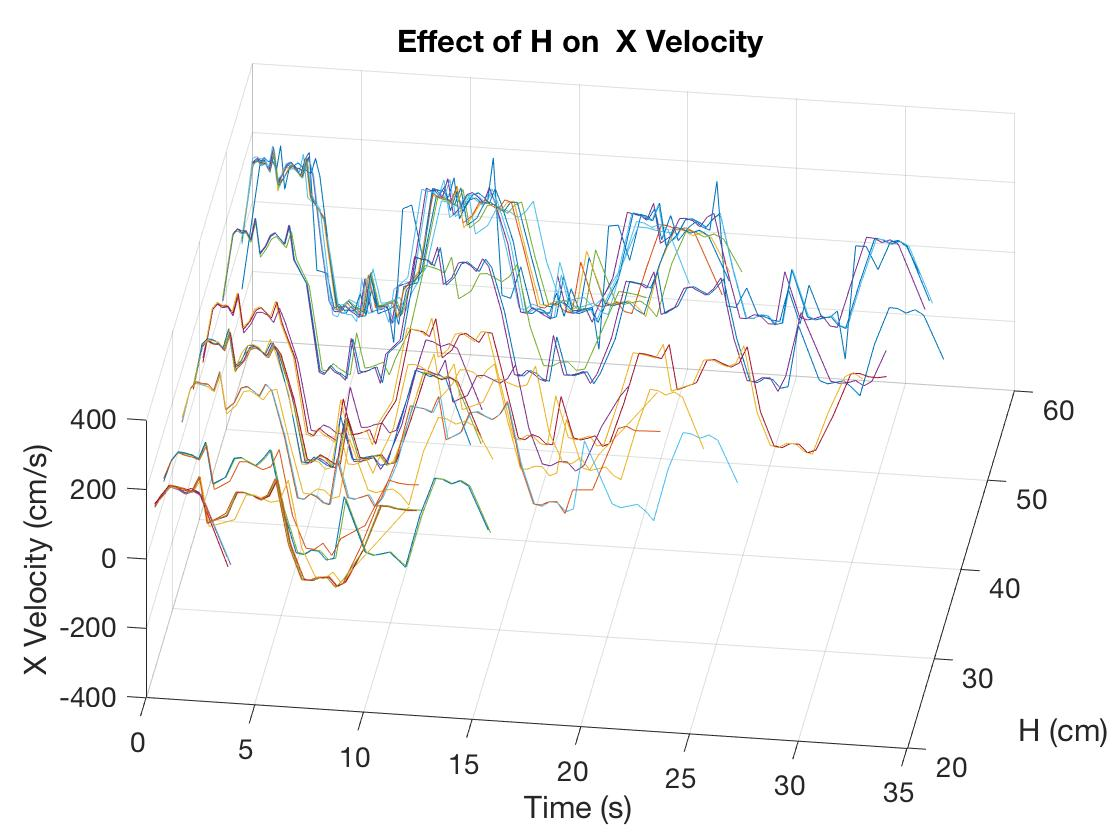
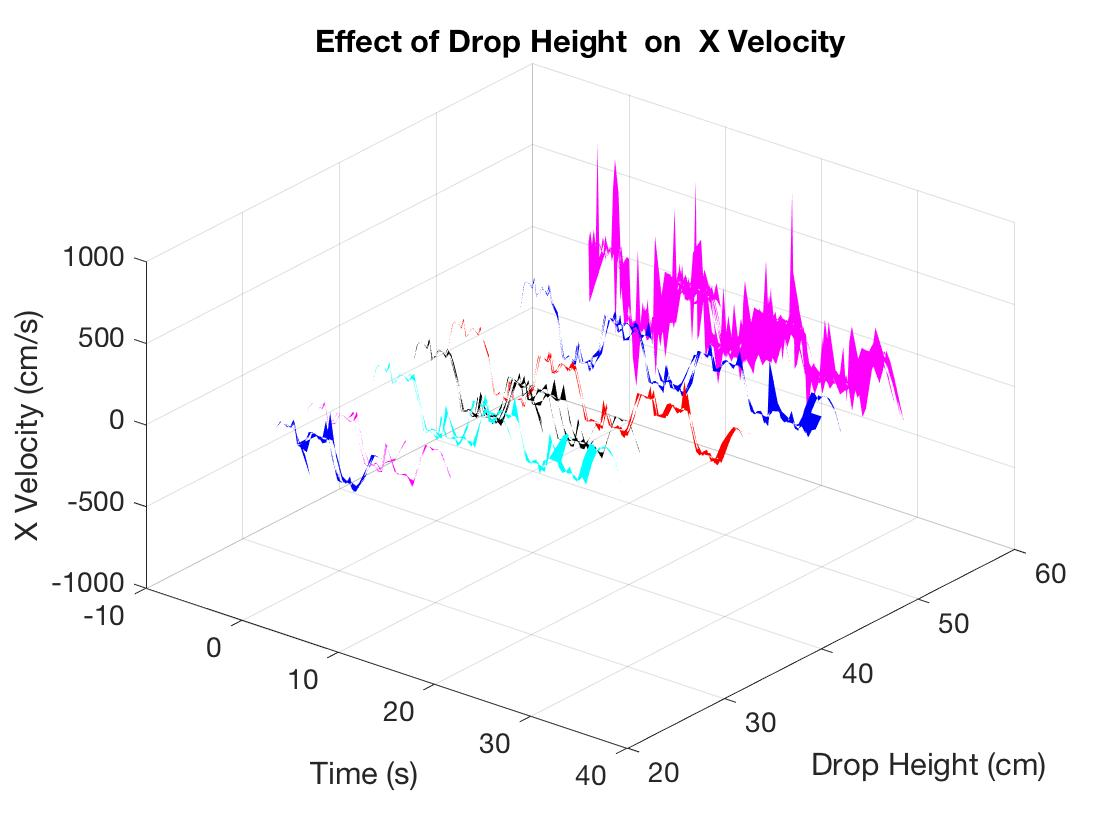
New graphs with colorcoding

diff --git a/RollCarCode/Data Processing Code/EffectMassRgHeight_3DPLOT.m b/RollCarCode/Data Processing Code/EffectMassRgHeight_3DPLOT.m
@@ -3,6 +3,7 @@ clear all;
 load configurations_04_12_trimmed_v_and_a;
 configs=configurations_04_12_trimmed_v_and_a;
 values=[configs.m];
+sorted_values=sort(unique(values));
 
 %% Effect of Rg on X and Y using data from 04/12.
 
@@ -10,6 +11,7 @@ clear all;
 load configurations_04_12_trimmed_v_and_a;
 configs=configurations_04_12_trimmed_v_and_a;
 values=[configs.r];
+sorted_values=sort(unique(values));
 
 %% Effect of H on X and Y using data from 04/12.
 
@@ -17,19 +19,22 @@ clear all;
 load configurations_04_12_trimmed_v_and_a;
 configs=configurations_04_12_trimmed_v_and_a;
 values=[configs.h];
-
 for m=1:length(values)
     values(m)=convertHeightSR(values(m));
 end
 
+sorted_values=sort(unique(values));
+
 
 %% Plotting
 close all;
-type='r_g'; % Change this.
-ylabelText='r_g (mm)'; % Changes this.
+type='Mass '; % Change this.
+ylabelText=' Mass (g)'; % Changes this.
 
 saveFig=false;
 baseText=['Effect of ' type ' on '];
+
+colors={'r','b','m','c','k'};
 
         figure(1);
         hold on;
@@ -38,11 +43,12 @@ baseText=['Effect of ' type ' on '];
             t=configs(m).t{1};
             val=values(m)*ones(size(configs(m).t{1}));
             x=configs(m).x{1};
-            %inBetweenT=[t-terr, fliplr(t+terr)];
-            %inBetweenX=[x, fliplr(x)];
-            %inBetweenMass=[val, fliplr(val)];
-            %fill3(inBetweenT,inBetweenMass,inBetweenX,rand);
-            plot3(t,val,x);
+            ind=find(sorted_values==values(m));
+            inBetweenT=[t-terr, fliplr(t+terr)];
+            inBetweenX=[x, fliplr(x)];
+            inBetweenMass=[val, fliplr(val)];
+            fill3(inBetweenT,inBetweenMass,inBetweenX,colors{mod(ind(1),length(colors))+1},'Linestyle','none');
+            %plot3(t,val,x,'Color',colors{mod(ind(1),length(colors))+1});
             xlabel('Time (s)');
             ylabel(ylabelText);
             zlabel('X position (cm)');
@@ -58,11 +64,12 @@ baseText=['Effect of ' type ' on '];
             t=configs(m).t{1};
             val=values(m)*ones(size(configs(m).t{1}));
             y=configs(m).y{1};
-            %inBetweenT=[t-terr, fliplr(t+terr)];
-            %inBetweenY=[y, fliplr(y)];
-            %inBetweenMass=[val, fliplr(val)];
-            %fill3(inBetweenT,inBetweenMass,inBetweenY,rand);
-            plot3(t,val,y);
+            ind=find(sorted_values==values(m));
+            inBetweenT=[t-terr, fliplr(t+terr)];
+            inBetweenY=[y, fliplr(y)];
+            inBetweenMass=[val, fliplr(val)];
+            fill3(inBetweenT,inBetweenMass,inBetweenY,colors{mod(ind(1),length(colors))+1},'Linestyle','none');
+            %plot3(t,val,y,'Color',colors{mod(ind(1),length(colors))+1});
             xlabel('Time (s)');
             ylabel(ylabelText);
             zlabel('Y position (cm)');
@@ -80,11 +87,12 @@ baseText=['Effect of ' type ' on '];
             vx=configs(m).vx{1};
             vx_err=configs(m).vx_err{1};
             vx_err=vx_err.*(vx_err<=50);
-            %inBetweenT=[t-terr, fliplr(t+terr)];
-            %inBetweenVx=[vx-vx_err, fliplr(vx+vx_err)];
-            %inBetweenMass=[val, fliplr(val)];
-            %fill3(inBetweenT,inBetweenMass,inBetweenVx,rand);
-            plot3(t,val,vx);
+            ind=find(sorted_values==values(m));
+            inBetweenT=[t-terr, fliplr(t+terr)];
+            inBetweenVx=[vx-vx_err, fliplr(vx+vx_err)];
+            inBetweenMass=[val, fliplr(val)];
+            fill3(inBetweenT,inBetweenMass,inBetweenVx,colors{mod(ind(1),length(colors))+1},'Linestyle','none');
+            %plot3(t,val,vx,'Color',colors{mod(ind(1),length(colors))+1});
             xlabel('Time (s)');
             ylabel(ylabelText);
             zlabel('X Velocity (cm/s)');
@@ -102,11 +110,12 @@ baseText=['Effect of ' type ' on '];
             vy=configs(m).vy{1};
             vy_err=configs(m).vy_err{1};
             vy_err=vy_err.*(vy_err<=50);
-            %inBetweenT=[t-terr, fliplr(t+terr)];
-            %inBetweenVy=[vy-vy_err, fliplr(vy+vy_err)];
-            %inBetweenMass=[val, fliplr(val)];
-            %fill3(inBetweenT,inBetweenMass,inBetweenVy,rand);
-            plot3(t,val,vy);
+            ind=find(sorted_values==values(m));
+            inBetweenT=[t-terr, fliplr(t+terr)];
+            inBetweenVy=[vy-vy_err, fliplr(vy+vy_err)];
+            inBetweenMass=[val, fliplr(val)];
+            fill3(inBetweenT,inBetweenMass,inBetweenVy,colors{mod(ind(1),length(colors))+1},'Linestyle','none');
+            %plot3(t,val,vy,'Color',colors{mod(ind(1),length(colors))+1});
             xlabel('Time (s)');
             ylabel(ylabelText);
             zlabel('Y Velocity (cm/s)');
@@ -124,11 +133,12 @@ baseText=['Effect of ' type ' on '];
             ax=configs(m).ax{1};
             ax_err=configs(m).ax_err{1};
             ax_err=ax_err.*(ax_err<=50);
-            %inBetweenT=[t-terr, fliplr(t+terr)];
-            %inBetweenAx=[ax-ax_err, fliplr(ax+ax_err)];
-            %inBetweenMass=[val, fliplr(val)];
-            %fill3(inBetweenT,inBetweenMass,inBetweenAx,rand);
-            plot3(t,val,ax);
+            ind=find(sorted_values==values(m));
+            inBetweenT=[t-terr, fliplr(t+terr)];
+            inBetweenAx=[ax-ax_err, fliplr(ax+ax_err)];
+            inBetweenMass=[val, fliplr(val)];
+            fill3(inBetweenT,inBetweenMass,inBetweenAx,colors{mod(ind(1),length(colors))+1},'Linestyle','none');
+            %plot3(t,val,ax,'Color',colors{mod(ind(1),length(colors))+1});
             xlabel('Time (s)');
             ylabel(ylabelText);
             zlabel('X Acceleration (cm/s^2)');
@@ -146,11 +156,12 @@ baseText=['Effect of ' type ' on '];
             ay=configs(m).ay{1};
             ay_err=configs(m).ay_err{1};
             ay_err=ay_err.*(ay_err<=50);
-            %inBetweenT=[t-terr, fliplr(t+terr)];
-            %inBetweenAy=[ay-ay_err, fliplr(ay+ay_err)];
-            %inBetweenMass=[val, fliplr(val)];
-            %fill3(inBetweenT,inBetweenMass,inBetweenAy,rand);
-            plot3(t,val,ay);
+            ind=find(sorted_values==values(m));
+            inBetweenT=[t-terr, fliplr(t+terr)];
+            inBetweenAy=[ay-ay_err, fliplr(ay+ay_err)];
+            inBetweenMass=[val, fliplr(val)];
+            fill3(inBetweenT,inBetweenMass,inBetweenAy,colors{mod(ind(1),length(colors))+1},'Linestyle','none');
+            %plot3(t,val,ay,'Color',colors{mod(ind(1),length(colors))+1});
             xlabel('Time (s)');
             ylabel(ylabelText);
             zlabel('Y Acceleration (cm/s^2)');
@@ -159,6 +170,7 @@ baseText=['Effect of ' type ' on '];
             grid on;
         end
         
+        %{
         
         figure(7);
         hold on;
@@ -248,3 +260,4 @@ baseText=['Effect of ' type ' on '];
             grid on;
             end
         end
+        %}

diff --git a/RollCarCode/Data Processing Code/EffectMassRgHeight_3DPLOT_MAGNITUDES.m b/RollCarCode/Data Processing Code/EffectMassRgHeight_3DPLOT_MAGNITUDES.m
@@ -34,14 +34,9 @@ baseText=['Effect of ' type ' on '];
         figure(1);
         hold on;
         for m=1:length(configs)
-            terr=configs(m).terr{1};
             t=configs(m).t{1};
             val=values(m)*ones(size(configs(m).t{1}));
             x=configs(m).x{1};
-            %inBetweenT=[t-terr, fliplr(t+terr)];
-            %inBetweenX=[x, fliplr(x)];
-            %inBetweenMass=[val, fliplr(val)];
-            %fill3(inBetweenT,inBetweenMass,inBetweenX,rand);
             plot3(t,val,x);
             xlabel('Time (s)');
             ylabel(ylabelText);
@@ -54,14 +49,9 @@ baseText=['Effect of ' type ' on '];
         figure(2);
         hold on;
         for m=1:length(configs)
-            terr=configs(m).terr{1};
             t=configs(m).t{1};
             val=values(m)*ones(size(configs(m).t{1}));
             y=configs(m).y{1};
-            %inBetweenT=[t-terr, fliplr(t+terr)];
-            %inBetweenY=[y, fliplr(y)];
-            %inBetweenMass=[val, fliplr(val)];
-            %fill3(inBetweenT,inBetweenMass,inBetweenY,rand);
             plot3(t,val,y);
             xlabel('Time (s)');
             ylabel(ylabelText);
@@ -73,25 +63,25 @@ baseText=['Effect of ' type ' on '];
         
         figure(3);
         hold on;
+        v_err=[];
         for m=1:length(configs)
-            terr=configs(m).terr{1};
             t=configs(m).t{1};
             val=values(m)*ones(size(configs(m).t{1}));
             vx=configs(m).vx{1};
+            vy=configs(m).vy{1};
             vx_err=configs(m).vx_err{1};
-            vx_err=vx_err.*(vx_err<=50);
-            %inBetweenT=[t-terr, fliplr(t+terr)];
-            %inBetweenVx=[vx-vx_err, fliplr(vx+vx_err)];
-            %inBetweenMass=[val, fliplr(val)];
-            %fill3(inBetweenT,inBetweenMass,inBetweenVx,rand);
-            plot3(t,val,vx);
+            vy_err=configs(m).vy_err{1};
+            v_err=[v_err sqrt(vx_err.^2+vy_err.^2)];
+            plot3(t,val,sqrt(vx.^2+vy.^2));
             xlabel('Time (s)');
             ylabel(ylabelText);
-            zlabel('X Velocity (cm/s)');
-            title([baseText ' X Velocity']);
+            zlabel('Velocity Magnitude (cm/s)');
+            title([baseText ' Velocity Magnitude']);
             set(gca,'FontSize',14);
             grid on;
         end
+        v_err_mean=mean(v_err);
+        %plot3([0,0],[0 0],[0 2*v_err_mean]);
         
         figure(4);
         hold on;
@@ -99,68 +89,20 @@ baseText=['Effect of ' type ' on '];
             terr=configs(m).terr{1};
             t=configs(m).t{1};
             val=values(m)*ones(size(configs(m).t{1}));
-            vy=configs(m).vy{1};
-            vy_err=configs(m).vy_err{1};
-            vy_err=vy_err.*(vy_err<=50);
-            %inBetweenT=[t-terr, fliplr(t+terr)];
-            %inBetweenVy=[vy-vy_err, fliplr(vy+vy_err)];
-            %inBetweenMass=[val, fliplr(val)];
-            %fill3(inBetweenT,inBetweenMass,inBetweenVy,rand);
-            plot3(t,val,vy);
-            xlabel('Time (s)');
-            ylabel(ylabelText);
-            zlabel('Y Velocity (cm/s)');
-            title([baseText ' Y Velocity']);
-            set(gca,'FontSize',14);
-            grid on;
-        end
-        
-        figure(5);
-        hold on;
-        for m=1:length(configs)
-            terr=configs(m).terr{1};
-            t=configs(m).t{1};
-            val=values(m)*ones(size(configs(m).t{1}));
             ax=configs(m).ax{1};
-            ax_err=configs(m).ax_err{1};
-            ax_err=ax_err.*(ax_err<=50);
-            %inBetweenT=[t-terr, fliplr(t+terr)];
-            %inBetweenAx=[ax-ax_err, fliplr(ax+ax_err)];
-            %inBetweenMass=[val, fliplr(val)];
-            %fill3(inBetweenT,inBetweenMass,inBetweenAx,rand);
-            plot3(t,val,ax);
-            xlabel('Time (s)');
-            ylabel(ylabelText);
-            zlabel('X Acceleration (cm/s^2)');
-            title([baseText ' X Acceleration']);
-            set(gca,'FontSize',14);
-            grid on;
-        end
-        
-        figure(6);
-        hold on;
-        for m=1:length(configs)
-            terr=configs(m).terr{1};
-            t=configs(m).t{1};
-            val=values(m)*ones(size(configs(m).t{1}));
             ay=configs(m).ay{1};
-            ay_err=configs(m).ay_err{1};
-            ay_err=ay_err.*(ay_err<=50);
-            %inBetweenT=[t-terr, fliplr(t+terr)];
-            %inBetweenAy=[ay-ay_err, fliplr(ay+ay_err)];
-            %inBetweenMass=[val, fliplr(val)];
-            %fill3(inBetweenT,inBetweenMass,inBetweenAy,rand);
-            plot3(t,val,ay);
+            plot3(t,val,sqrt(ax.^2+ay.^2));
             xlabel('Time (s)');
             ylabel(ylabelText);
-            zlabel('Y Acceleration (cm/s^2)');
-            title([baseText ' Y Acceleration']);
+            zlabel('Acceleration Magnitude (cm/s^2)');
+            title([baseText ' Acceleration Magnitude']);
             set(gca,'FontSize',14);
+            
             grid on;
         end
         
-        
-        figure(7);
+        %{
+        figure(5);
         hold on;
         for m=1:length(configs)
             terr=configs(m).terr{1};
@@ -177,7 +119,7 @@ baseText=['Effect of ' type ' on '];
             end
         end
         
-        figure(8);
+        figure(6);
         hold on;
         for m=1:length(configs)
             terr=configs(m).terr{1};
@@ -248,3 +190,4 @@ baseText=['Effect of ' type ' on '];
             grid on;
             end
         end
+        %}
